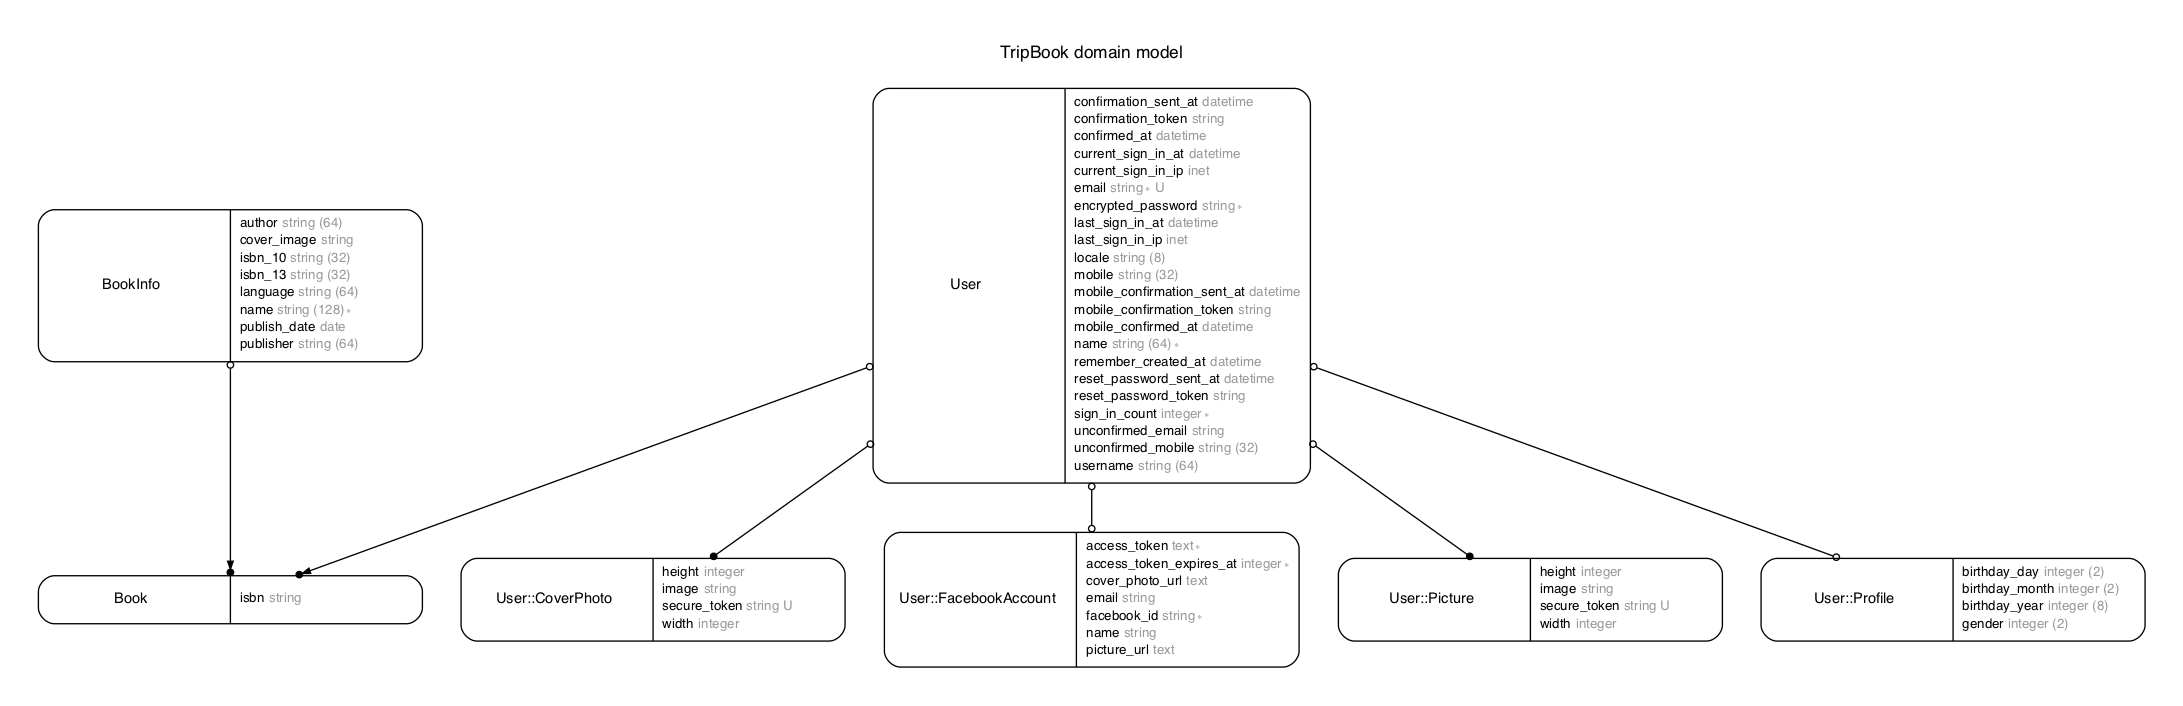
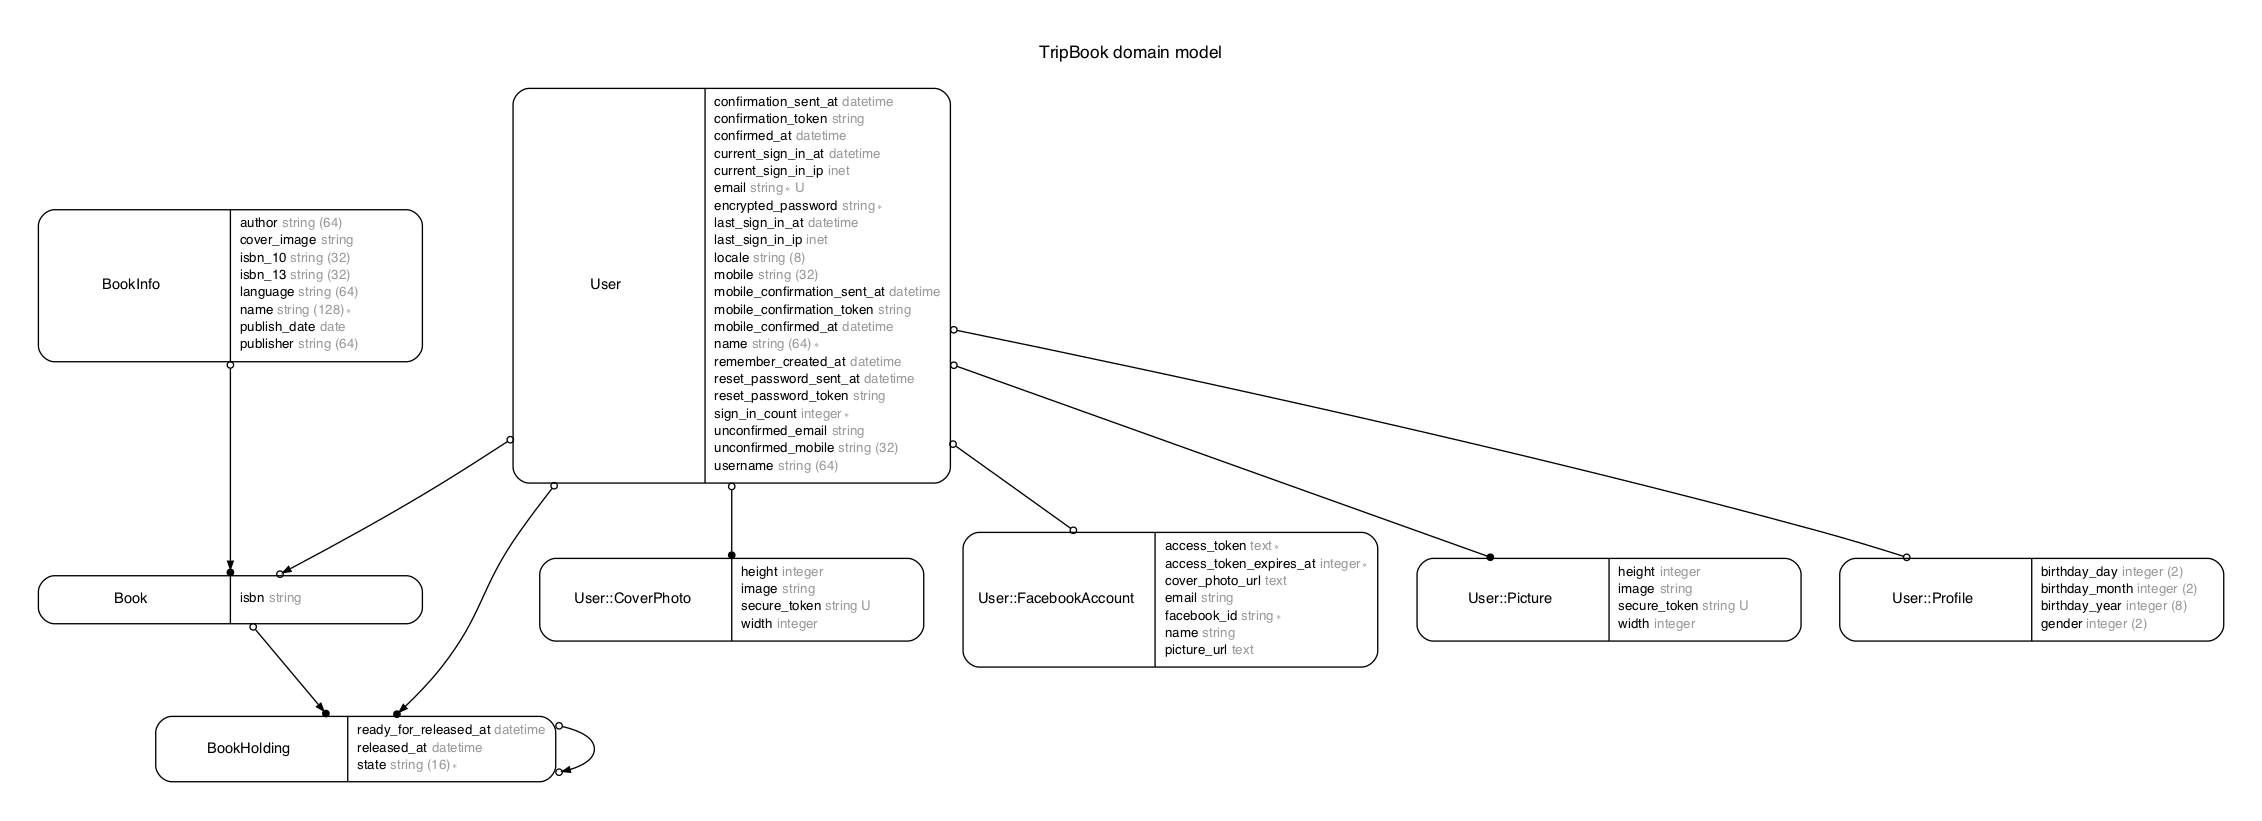
create BookHolding model

diff --git a/db/schema.rb b/db/schema.rb
@@ -10,10 +10,25 @@
 #
 # It's strongly recommended that you check this file into your version control system.
 
-ActiveRecord::Schema.define(version: 20170218181530) do
+ActiveRecord::Schema.define(version: 20170219035433) do
 
   # These are extensions that must be enabled in order to support this database
   enable_extension "plpgsql"
+
+  create_table "book_holdings", force: :cascade do |t|
+    t.integer  "user_id",                          null: false
+    t.integer  "book_id",                          null: false
+    t.integer  "previous_holding_id"
+    t.string   "state",                 limit: 16, null: false
+    t.datetime "ready_for_released_at"
+    t.datetime "released_at"
+    t.datetime "created_at",                       null: false
+    t.datetime "updated_at",                       null: false
+    t.index ["book_id"], name: "index_book_holdings_on_book_id", using: :btree
+    t.index ["previous_holding_id"], name: "index_book_holdings_on_previous_holding_id", using: :btree
+    t.index ["state"], name: "index_book_holdings_on_state", using: :btree
+    t.index ["user_id"], name: "index_book_holdings_on_user_id", using: :btree
+  end
 
   create_table "book_infos", primary_key: "isbn", id: :string, limit: 32, force: :cascade do |t|
     t.string   "isbn_10",      limit: 32
@@ -122,6 +137,9 @@ ActiveRecord::Schema.define(version: 20170218181530) do
     t.index ["username"], name: "index_users_on_username", unique: true, using: :btree
   end
 
+  add_foreign_key "book_holdings", "book_holdings", column: "previous_holding_id"
+  add_foreign_key "book_holdings", "books"
+  add_foreign_key "book_holdings", "users"
   add_foreign_key "books", "users", column: "owner_id"
   add_foreign_key "user_cover_photos", "users"
   add_foreign_key "user_facebook_accounts", "users"

diff --git a/app/models/book_holding.rb b/app/models/book_holding.rb
@@ -1,0 +1,61 @@
+# frozen_string_literal: true
+class BookHolding < ApplicationRecord
+  include AASM
+  include Trackable
+
+  scope :active, -> { where(state: [:holding, :ready_for_release]) }
+
+  belongs_to :user
+  belongs_to :book
+  belongs_to :previous_holding, optional: true, class_name: 'BookHolding'
+
+  aasm column: :state do
+    state :holding, initial: true
+    state :ready_for_release
+    state :released
+
+    event :ready_for_release do
+      transitions from: :holding, to: :ready_for_release
+
+      before do |params|
+        params ||= {}
+        self.ready_for_released_at = params.fetch(:ready_for_released_at, Time.current)
+      end
+    end
+
+    event :cancel_release do
+      transitions from: :ready_for_release, to: :holding
+
+      before do
+        self.ready_for_released_at = nil
+      end
+    end
+
+    event :release do
+      transitions from: [:holding, :ready_for_release], to: :released
+
+      before do |params|
+        params ||= {}
+        self.released_at = params.fetch(:released_at, Time.current)
+      end
+    end
+  end
+
+  before_validation :set_previous_holding, on: :create
+  after_create :release_old_holdings
+  after_destroy :rehold_previous_holding
+
+  private
+
+  def set_previous_holding
+    self.previous_holding ||= book.holdings.active.last
+  end
+
+  def release_old_holdings
+    book.holdings.active.where.not(id: id).find_each(&:release!)
+  end
+
+  def rehold_previous_holding
+    previous_holding&.reload.update_attributes!(state: :holding)
+  end
+end

diff --git a/spec/models/book_holding_spec.rb b/spec/models/book_holding_spec.rb
@@ -1,0 +1,38 @@
+# frozen_string_literal: true
+require 'rails_helper'
+
+RSpec.describe BookHolding, type: :model do
+  it { is_expected.to belong_to(:user) }
+  it { is_expected.to belong_to(:book) }
+  it { is_expected.to belong_to(:previous_holding) }
+
+  describe "life cycle" do
+    describe "create" do
+      let(:book) { create(:book) }
+      subject { create(:book_holding, book: book) }
+
+      it "sets the old active holding to released" do
+        last_holding = book.current_holding
+        expect { subject }.to change { last_holding.reload.state }.from('holding').to('released')
+      end
+    end
+
+    describe "destroy" do
+      subject { book_holding.destroy }
+      let(:book) { create(:book) }
+      let(:book_holding) { create(:book_holding, book: book) }
+
+      context "state is holding with other holding record" do
+        let(:last_book_holding) do
+          create(:book_holding, book: book)
+        end
+
+        it "sets the last holding record of the book to state holding" do
+          last_book_holding
+          book_holding
+          expect { subject }.to change { last_book_holding.reload.state }.from('released').to('holding')
+        end
+      end
+    end
+  end
+end

diff --git a/app/models/book.rb b/app/models/book.rb
@@ -1,9 +1,21 @@
 # frozen_string_literal: true
 class Book < ApplicationRecord
   belongs_to :owner, class_name: 'User'
+  has_many :holdings, class_name: 'BookHolding'
+  has_many :past_holders, through: :holdings, source: :user
+  has_one :current_holding, -> { active }, class_name: 'BookHolding'
+  has_one :holder, through: :current_holding, source: :user
   belongs_to :info, class_name: 'BookInfo', primary_key: :isbn, foreign_key: :isbn
 
   delegate :isbn_10, :isbn_13,
            :name, :cover_image, :language, :author, :publisher, :publish_date,
            to: :info, prefix: false
+
+  after_create :create_book_holding_on_create
+
+  private
+
+  def create_book_holding_on_create
+    holdings.create!(user: owner)
+  end
 end

diff --git a/spec/models/book_spec.rb b/spec/models/book_spec.rb
@@ -4,4 +4,19 @@ require 'rails_helper'
 RSpec.describe Book, type: :model do
   it { is_expected.to belong_to(:info) }
   it { is_expected.to belong_to(:owner) }
+  it { is_expected.to have_many(:holdings) }
+  it { is_expected.to have_many(:past_holders) }
+  it { is_expected.to have_one(:current_holding) }
+  it { is_expected.to have_one(:holder) }
+
+  describe "life cycle" do
+    describe "create" do
+      subject(:book) { create(:book) }
+
+      it "creates the initial holding record" do
+        initial_holding_record = book.holdings.last
+        expect(initial_holding_record.user).to eq(book.owner)
+      end
+    end
+  end
 end

diff --git a/db/migrate/20170219035433_create_book_holdings.rb b/db/migrate/20170219035433_create_book_holdings.rb
@@ -1,0 +1,17 @@
+# frozen_string_literal: true
+class CreateBookHoldings < ActiveRecord::Migration[5.0]
+  def change
+    create_table :book_holdings do |t|
+      t.references :user, null: false, index: true, foreign_key: true
+      t.references :book, null: false, index: true, foreign_key: true
+      t.references :previous_holding, foreign_key: { to_table: :book_holdings }, index: true
+      t.string :state, limit: 16, null: false
+      t.datetime :ready_for_released_at
+      t.datetime :released_at
+
+      t.timestamps
+    end
+
+    add_index :book_holdings, :state
+  end
+end

diff --git a/spec/models/user_spec.rb b/spec/models/user_spec.rb
@@ -5,6 +5,10 @@ RSpec.describe User, type: :model do
   it_should_behave_like("User::FacebookAuthenticatable")
 
   it { is_expected.to have_many(:owned_books) }
+  it { is_expected.to have_many(:holdings) }
+  it { is_expected.to have_many(:past_holded_books) }
+  it { is_expected.to have_many(:active_holdings) }
+  it { is_expected.to have_many(:holding_books) }
   it { is_expected.to have_one(:facebook_account) }
   it { is_expected.to validate_presence_of(:email) }
   it { is_expected.to validate_presence_of(:name) }

diff --git a/app/models/user.rb b/app/models/user.rb
@@ -9,6 +9,10 @@ class User < ApplicationRecord
   has_one :picture
   has_one :cover_photo
   has_many :owned_books, class_name: 'Book', foreign_key: :owner_id
+  has_many :holdings, class_name: 'BookHolding'
+  has_many :past_holded_books, through: :holdings, source: :book
+  has_many :active_holdings, -> { active }, class_name: 'BookHolding'
+  has_many :holding_books, through: :active_holdings, source: :book
   has_one :facebook_account
 
   validates :name, presence: true

diff --git a/spec/factories/books.rb b/spec/factories/books.rb
@@ -1,7 +1,7 @@
 # frozen_string_literal: true
 FactoryGirl.define do
   factory :book do
-    user
+    association :owner, factory: :user
     association :info, factory: :book_info
   end
 end

diff --git a/app/models/concerns/trackable.rb b/app/models/concerns/trackable.rb
@@ -1,0 +1,8 @@
+# frozen_string_literal: true
+module Trackable
+  extend ActiveSupport::Concern
+
+  included do
+    # has_paper_trail
+  end
+end

diff --git a/spec/factories/book_holdings.rb b/spec/factories/book_holdings.rb
@@ -1,0 +1,7 @@
+# frozen_string_literal: true
+FactoryGirl.define do
+  factory :book_holding do
+    user
+    book
+  end
+end
